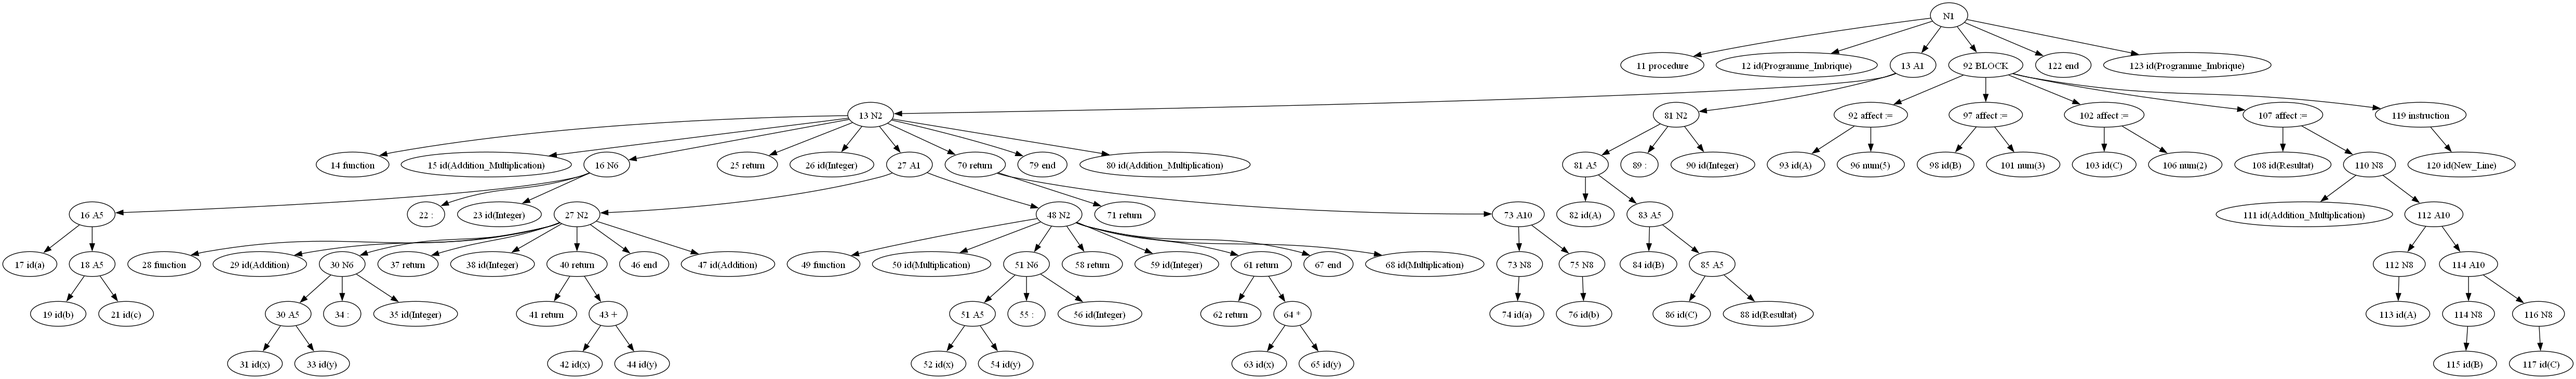
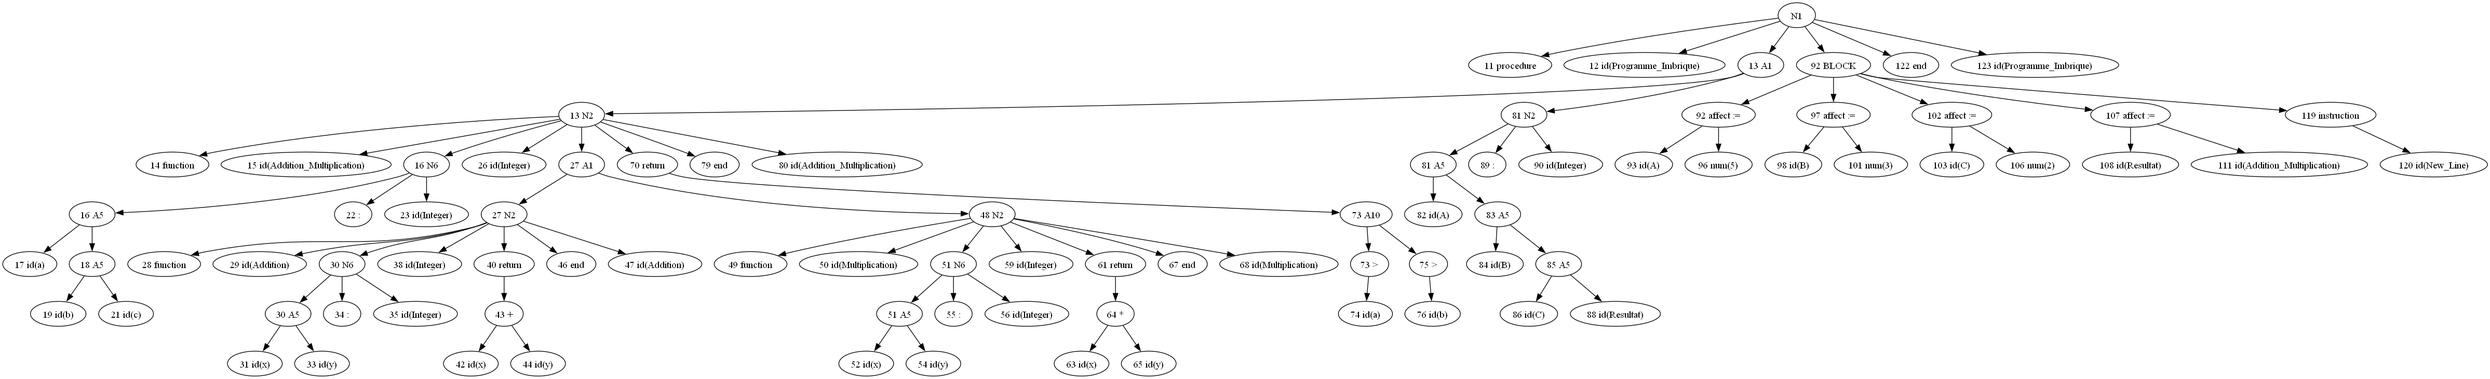
fix bug condition

diff --git a/parseur/main_parseur.py b/parseur/main_parseur.py
@@ -234,6 +234,17 @@ def generate_final_AST(root):
 
     remove_duplicate_children_working(root)
 
+    for node in PreOrderIter(root):
+        if node.name != "N1":
+            name = node.name.split(" ")
+            if name[1] == "N8":
+                node.name = name[0] + " " + ">"
+                for i in range(0, len(node.children)):
+                    name = node.children[i].name.split(" ")
+                    if name[1] == ">":
+                        node.children[i].parent = None
+                        break
+
     return root
 
 
@@ -330,16 +341,15 @@ def delete_node(node):
     name = node.name.split(" ")
     if name[1] == "N8":
         children = node.children
-        for i in range(len(children)):
-            children[i].parent = node.parent
-            node.parent = None
+        if len(children) == 2:
+            for i in range(len(children)):
+                children[i].parent = node.parent
+                node.parent = None
     for i in range(0, len(node.children)):
         name = node.children[i].name.split(" ")
         if name[1] == "return":
             node.children[i].parent = None
             break
-
-
 
 
 def boucle_node(root):
@@ -405,7 +415,6 @@ def test_if(node, string):
                     sibling[i].parent = None
                     sibling[i + 1].parent = None
                     break
-
 
 
 def test_elsif(node, string):
@@ -475,14 +484,6 @@ def blocWhile(node):
             node.children[1].parent = node.children[0]
             node.children[1].parent = node.children[0]
 
-def blocWhile(node):
-    nom = node.name.split(" ")
-    if nom[1] == "instruction":
-        nom2 = node.children[0].name.split(" ")
-        if nom2[1] == "while":
-            node.children[2].parent = None
-            node.children[3].parent = None
-            node.children[3].parent = None
 
 
 if __name__ == '__main__':
